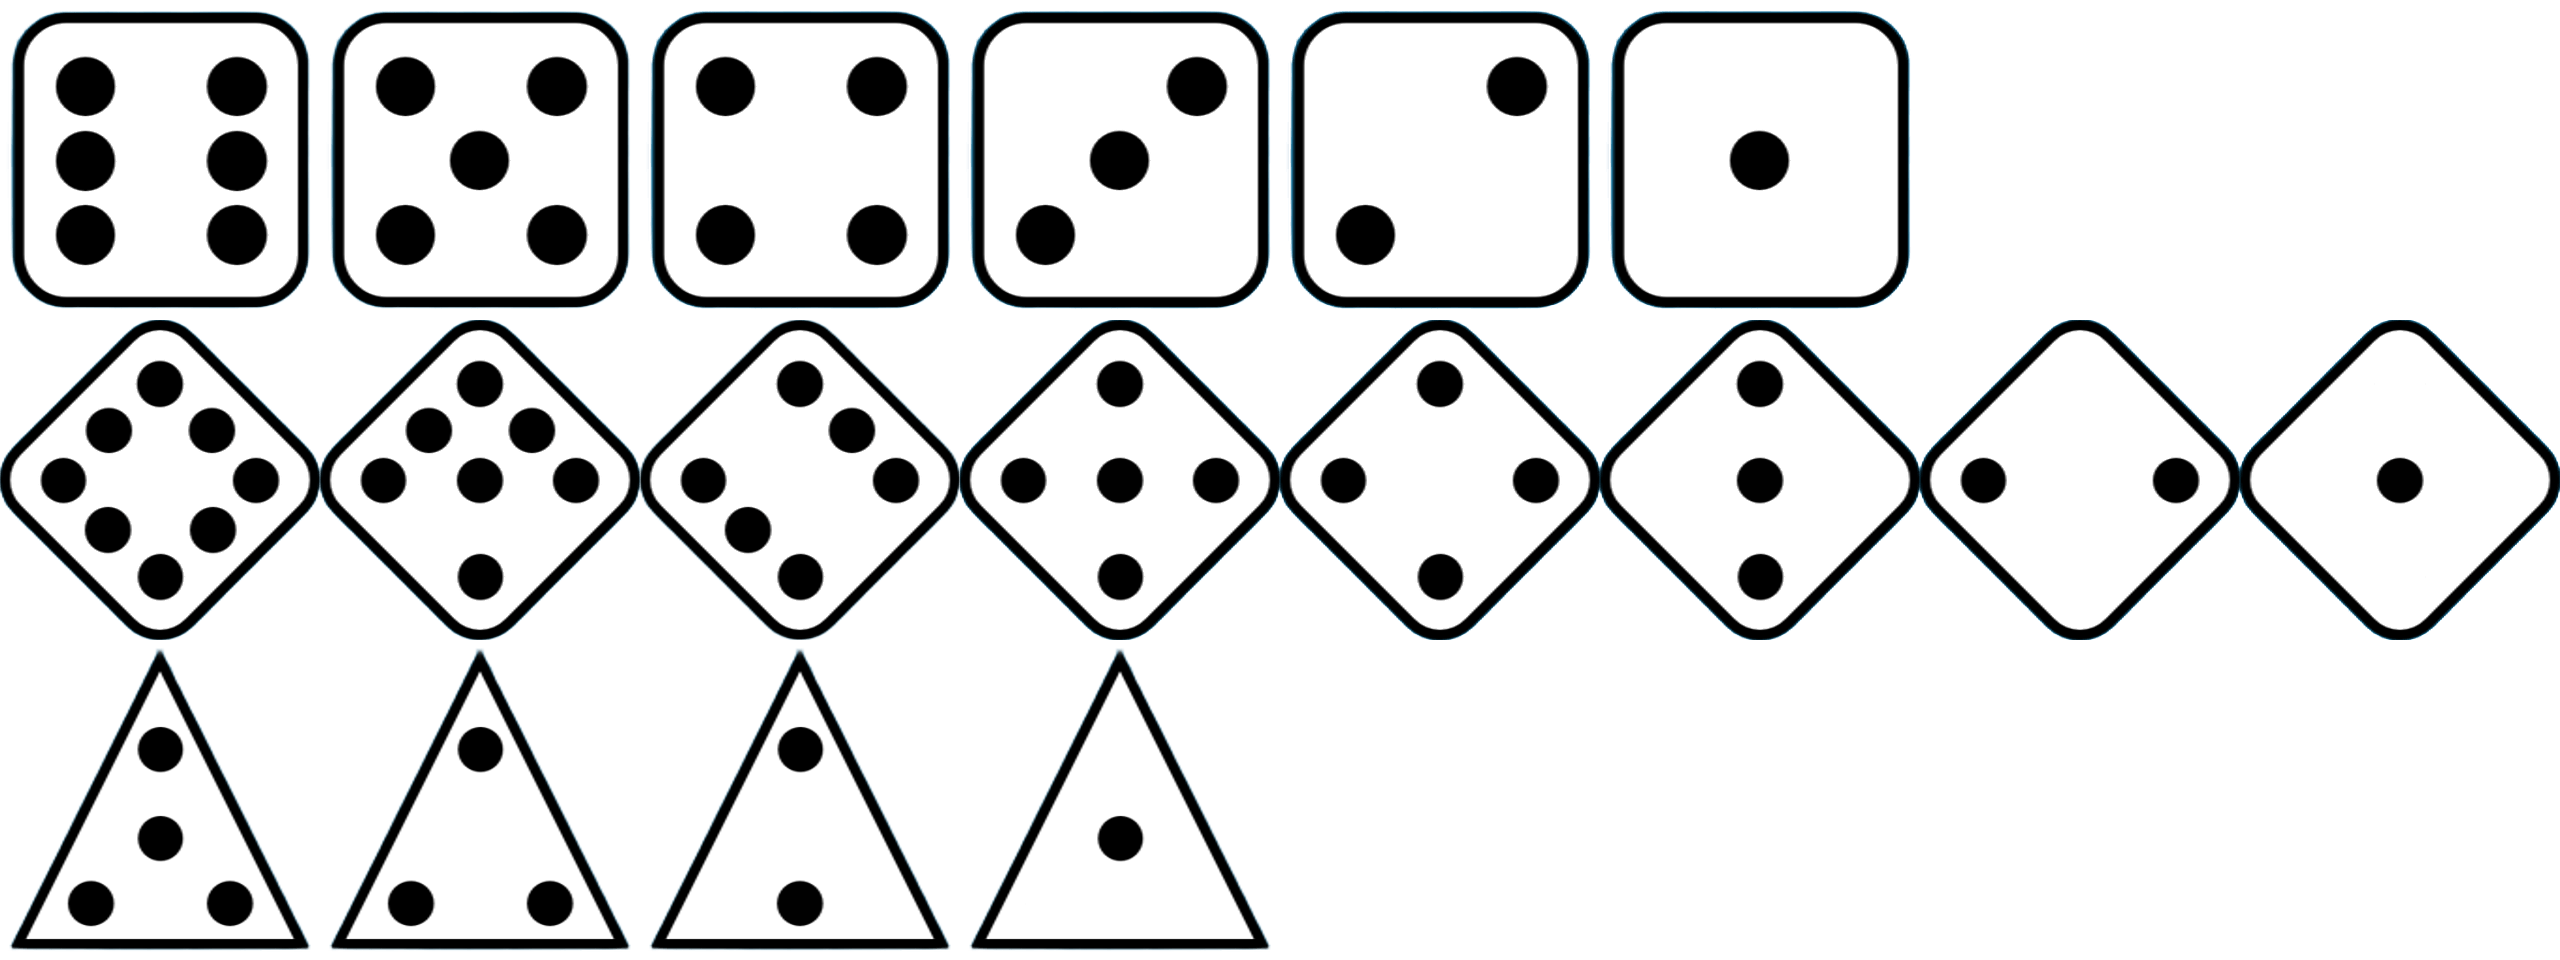
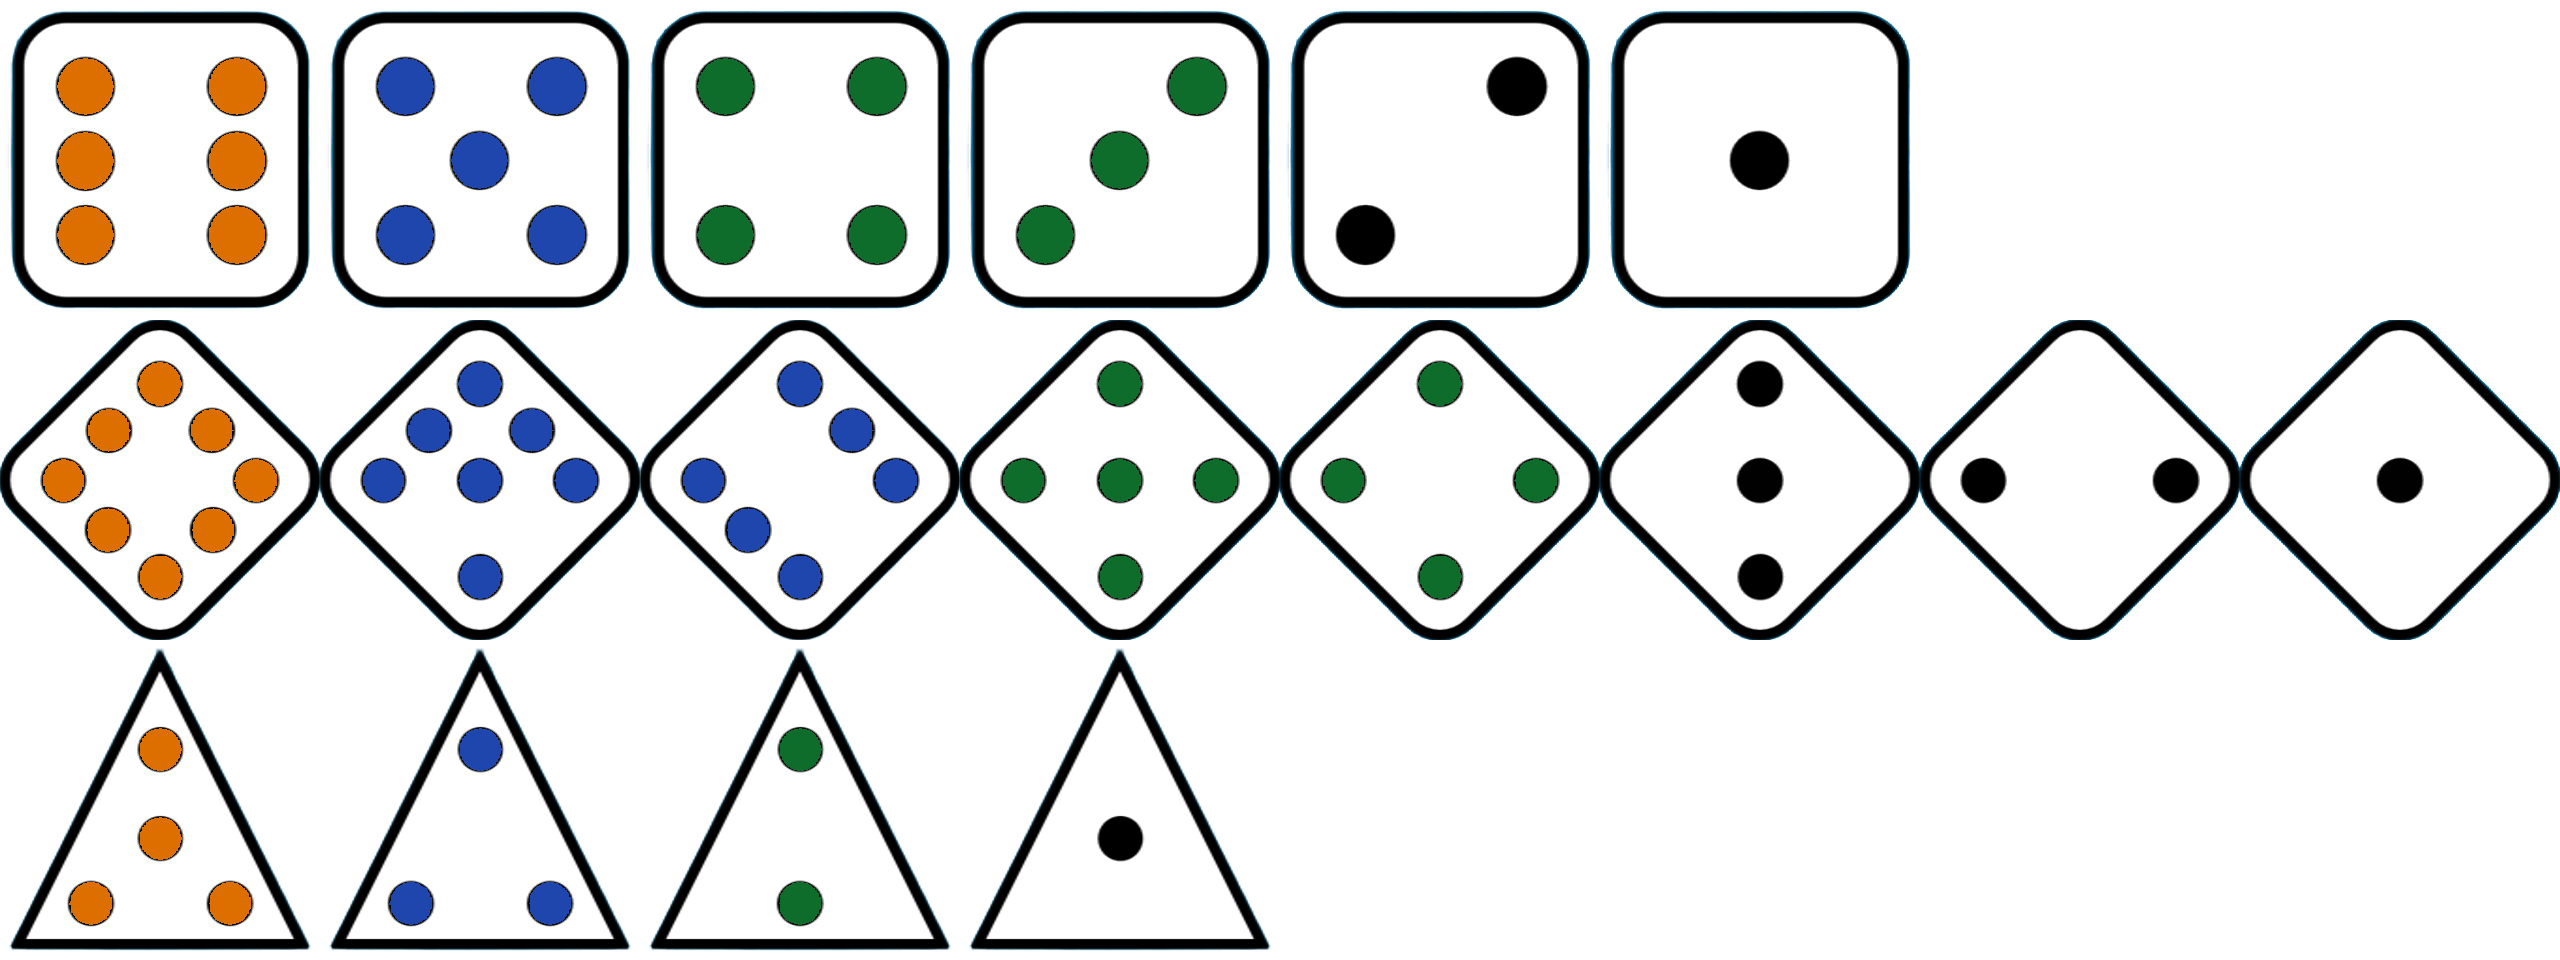
Urgent Changes
-Need to improve the explanation/readability of the game
-Changed die to have colors on certain faces instead of "tiers"
-Added a strike DC indicator (now called STRIKE)

diff --git a/web/rollbaseball.html b/web/rollbaseball.html
@@ -111,7 +111,7 @@ body {
 
 		<script src="rollbaseball.js"></script>
 		<script>
-const GODOT_CONFIG = {"args":[],"canvasResizePolicy":2,"emscriptenPoolSize":8,"ensureCrossOriginIsolationHeaders":true,"executable":"rollbaseball","experimentalVK":false,"fileSizes":{"rollbaseball.pck":119620,"rollbaseball.wasm":35740641},"focusCanvas":true,"gdextensionLibs":[],"godotPoolSize":4};
+const GODOT_CONFIG = {"args":[],"canvasResizePolicy":2,"emscriptenPoolSize":8,"ensureCrossOriginIsolationHeaders":true,"executable":"rollbaseball","experimentalVK":false,"fileSizes":{"rollbaseball.pck":895520,"rollbaseball.wasm":35740641},"focusCanvas":true,"gdextensionLibs":[],"godotPoolSize":4};
 const GODOT_THREADS_ENABLED = false;
 const engine = new Engine(GODOT_CONFIG);
 